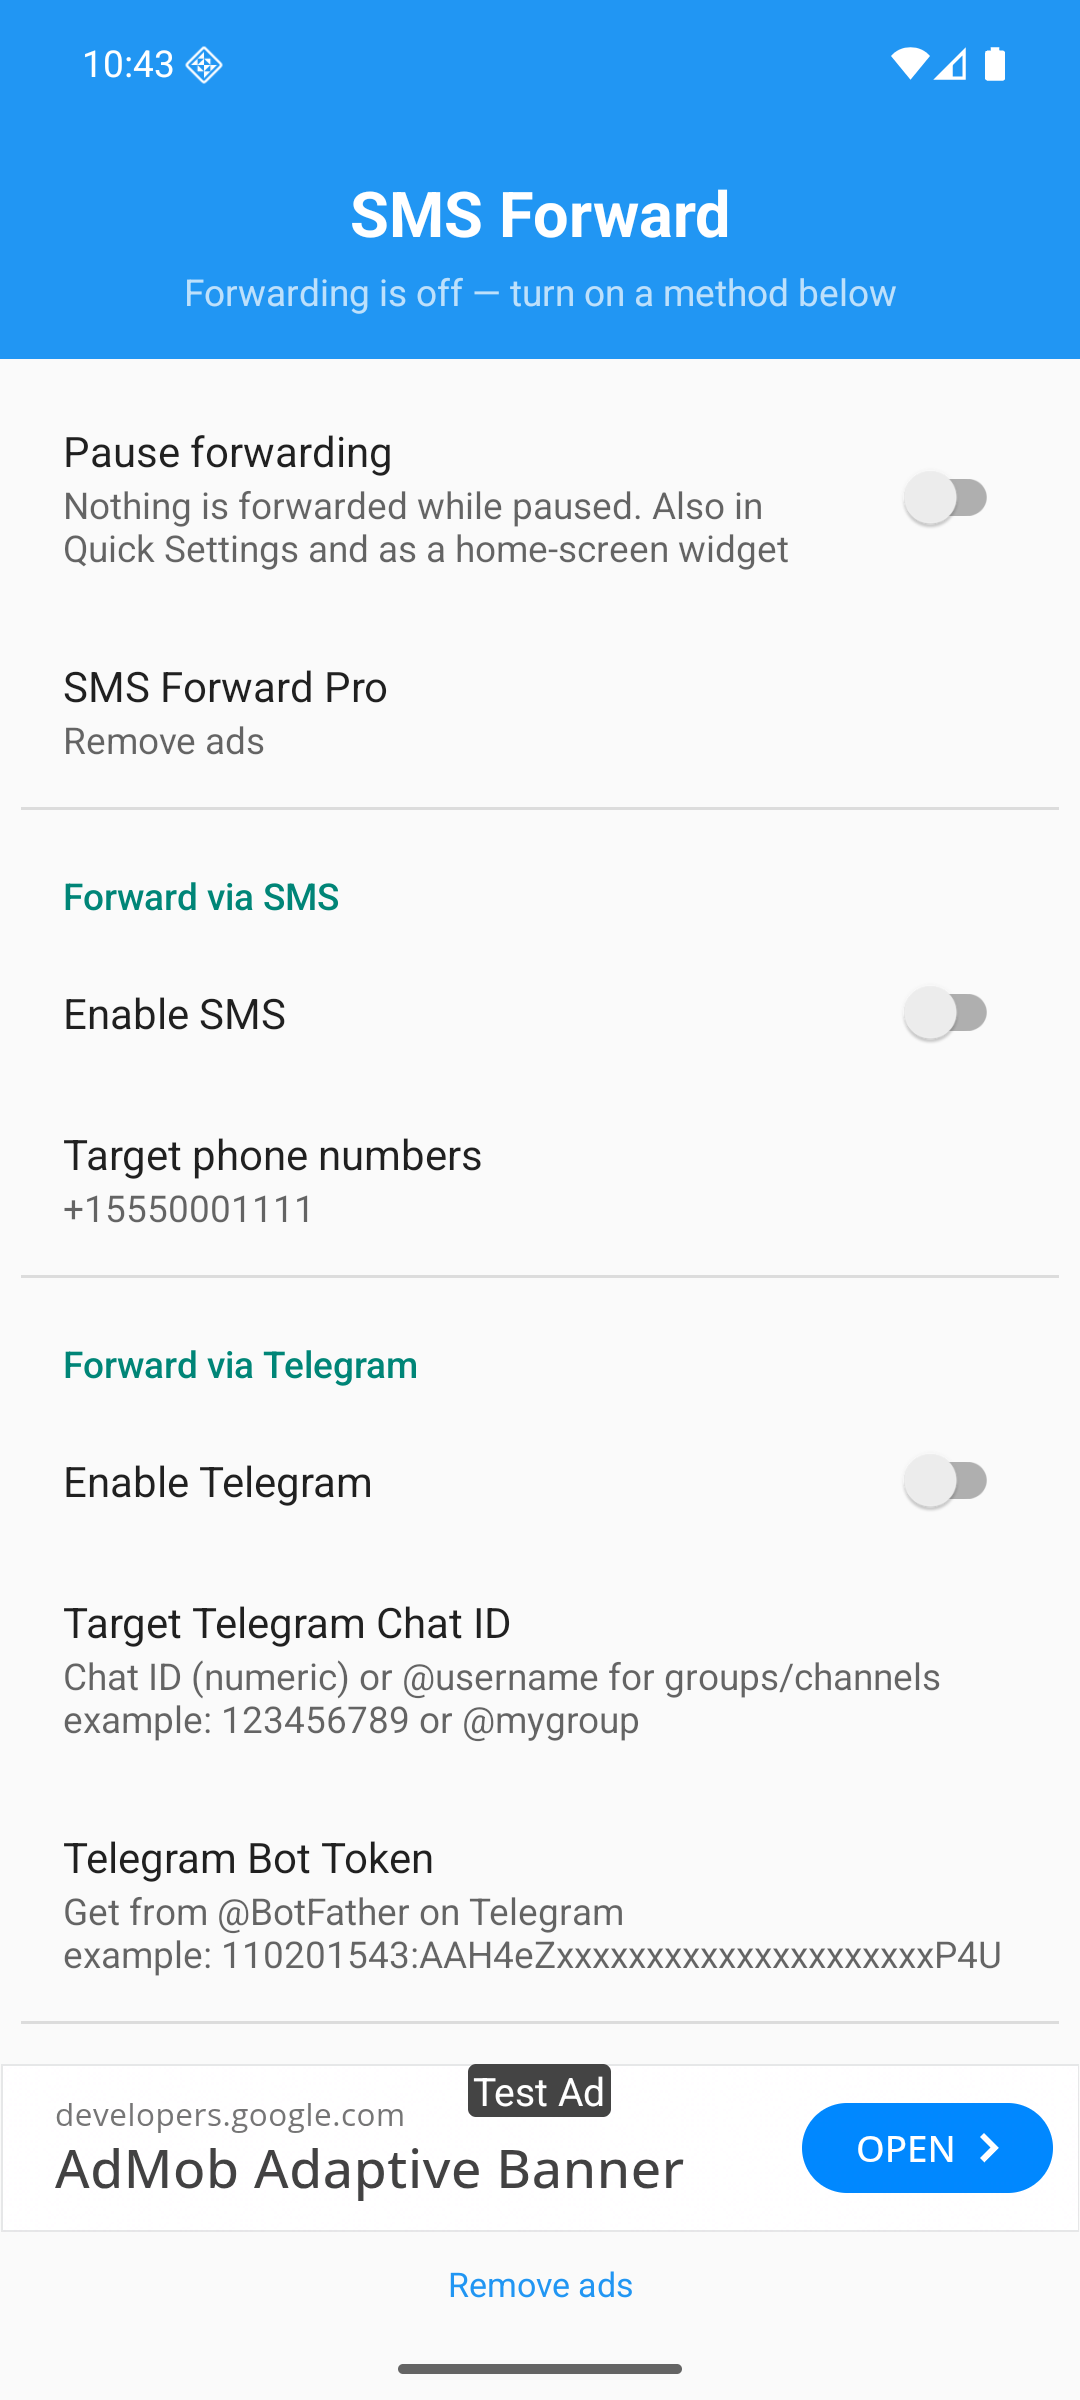
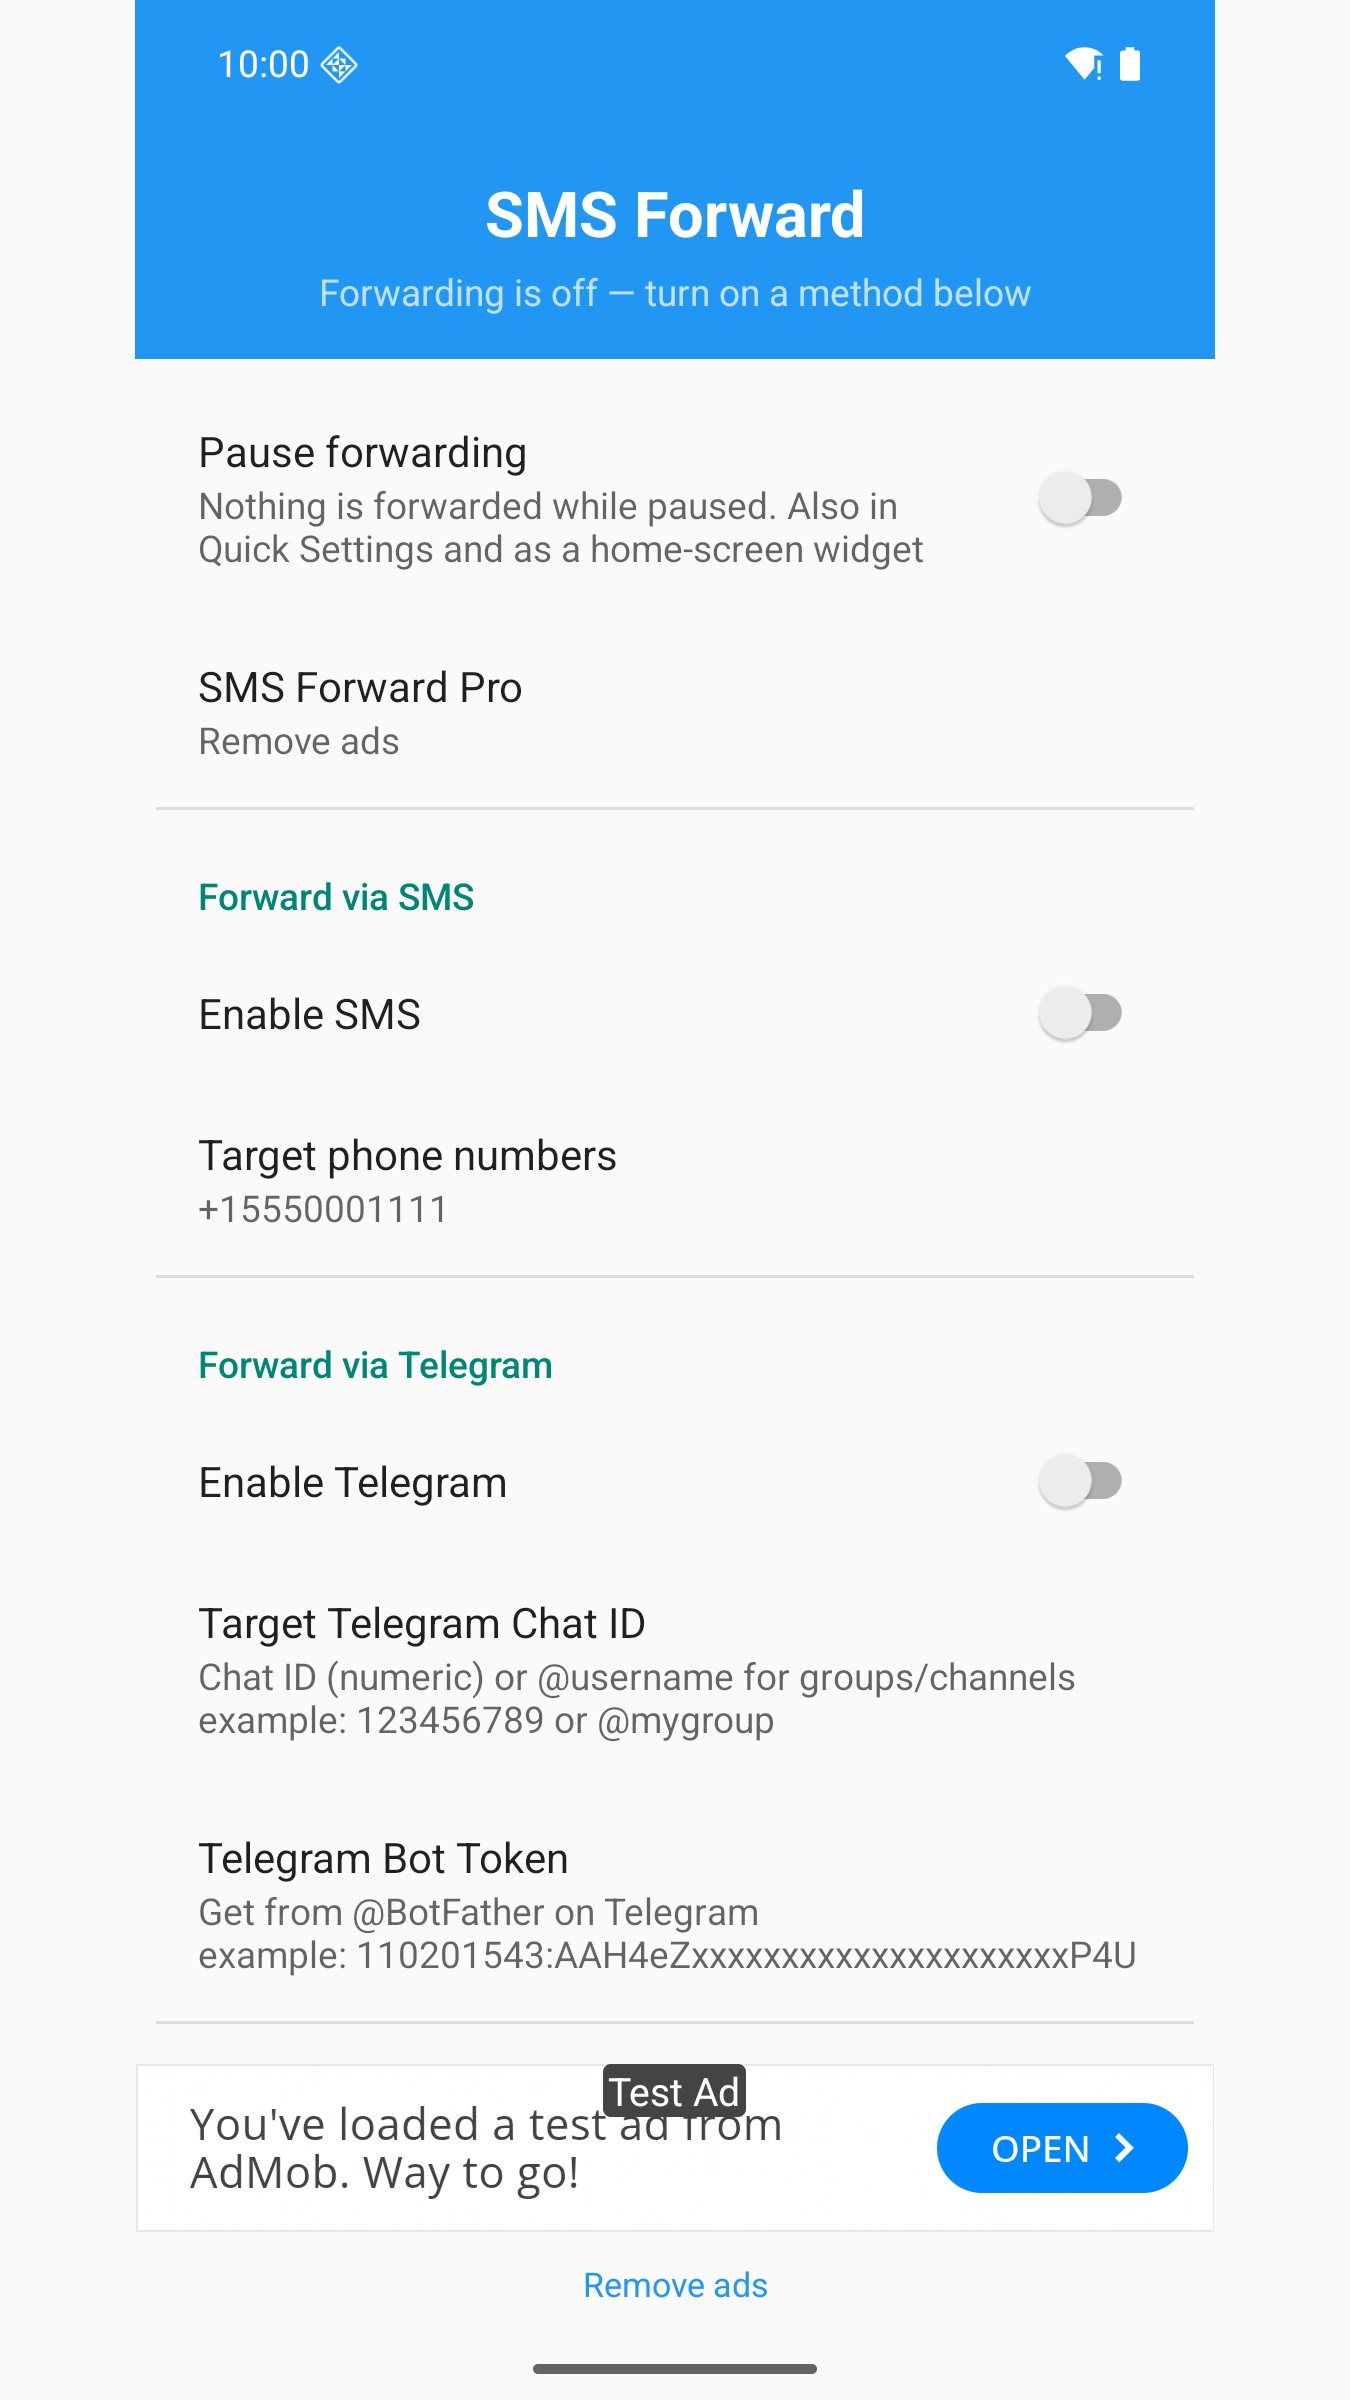
Prepare Play listings and release assets

diff --git a/docs/PLAY_RELEASE.md b/docs/PLAY_RELEASE.md
@@ -24,12 +24,13 @@ Bump `versionCode` in `app/build.gradle` for every upload.
 - **Privacy policy URL:** https://github.com/spinykiller/sms_forwarder/blob/master/docs/PRIVACY.md
 - **Permissions declaration (SMS):** required, or the app is rejected. Core functionality: *SMS forwarding to the user's other devices/services*. Closest permitted use: **cross-device synchronization or transfer of SMS** (forwarding to the user's own phone, Telegram or server). Explain: the user configures destinations; no data goes to the developer; SMS data is never used for ads. Provide a demo video showing setup → incoming SMS → forwarded copy.
   - Risk: Google decides SMS exceptions case by case. Rejection is possible; the GitHub APK remains the fallback.
-- **Data safety:** SMS/MMS messages and Contacts are *processed* to provide app functionality and *shared* only at the user's direction (to destinations they set); encrypted in transit (https; SMS is carrier-transmitted); deletable by clearing app data. Plus the AdMob SDK: *Device or other IDs*, *Approximate location*, *App interactions*, *Diagnostics* — collected and shared for Advertising/Analytics/Fraud prevention. Declare **Contains ads: yes** and the `AD_ID` permission use (advertising). Pro notification forwarding processes *Other in-app messages* the same way (user-directed sharing, not collected by the developer).
+- **Data safety:** Review `docs/store/console_answers.md` and the current Google SDK disclosures. SMS and optional contact names and selected notifications are sent to user-configured destinations for app functionality; determine collection and sharing under Play's current definitions. Webhooks use HTTPS and SMTP uses TLS; SMS is carrier-transmitted. AdMob may collect device IDs, approximate location, interactions and diagnostics. Declare ads and advertising ID use.
 - **Notification access** (`NotificationListenerService`): no declaration form, but review checks the prominent disclosure shown before the system screen (in the app) and the privacy policy line; show it in the demo video.
 - **READ_PHONE_STATE**: requested only from the Pro "Send SMS from" picker to list SIMs; mention it in the SMS declaration's description.
 - **In-app products** (IDs must match `Billing.java`):
   - Subscription `pro` with base plans `annual` (+ offer `trial`, e.g. 7-day free trial, new customers) and `monthly`.
   - One-time product `pro_lifetime`.
+  - Monthly: USD 1.99 / INR 99; annual: USD 9.99 / INR 499; lifetime: USD 19.99 / INR 999. Convert other regions from USD; enable new regions. Annual offer `trial`: 7 days free for customers who have never had `pro`.
   - Add license testers (Setup → License testing) and test purchases on the internal track; the emulator without Play Store shows "billing isn't available".
 - **Content rating:** questionnaire (utility, no user-generated content shared publicly).
 - **Target audience:** 18+.

diff --git a/docs/store/console_answers.md b/docs/store/console_answers.md
@@ -6,7 +6,7 @@
 
 The optional Pro SIM picker requests READ_PHONE_STATE to list available SIMs for outgoing SMS. Optional Pro notification forwarding requests notification access after an in-app disclosure; it forwards content only from apps selected by the user.
 
-Demo video: show destination setup, an incoming SMS and the forwarded copy, then the notification-access disclosure and system access screen. Video still required.
+Demo video: the local `demo.mp4` is a draft only. Replace it with a recording showing installation, permission request, destination setup, the same incoming SMS and forwarded copy, and the notification-access disclosure before submitting.
 
 ## Data safety
 
@@ -20,3 +20,16 @@ Review the final app and SDK disclosures in Play Console before submitting; thes
 - Contains ads: yes. Advertising ID: advertising.
 
 Sources: https://support.google.com/googleplay/android-developer/answer/10208820 and https://support.google.com/googleplay/android-developer/answer/10787469
+
+## Other Console forms
+
+- App category: Tools. Suggested tags: select only applicable SMS and utility tags available in Console.
+- App access: All functionality is accessible without an account; paid Pro features use Google Play purchases.
+- Ads: Yes. Advertising ID: Yes, used for advertising.
+- Target audience: 18 and over only.
+- Government apps: No. Financial features: None. Health features: None.
+- Content rating: Answer the questionnaire for a utility app with no app-provided public user-generated content, violence, sexual content, gambling or controlled-substance content. Messages and notification content are user-supplied; answer any questions about user interaction and unrestricted access according to the exact wording in Console.
+- Privacy policy: https://github.com/spinykiller/sms_forwarder/blob/master/docs/PRIVACY.md
+- SMS declaration video URL: [Paste the unlisted YouTube URL after recording and upload.]
+
+Google's data safety definitions distinguish collection from sharing and exclude certain user-directed transfers from the definition of sharing. Confirm the exact form answers for each configured destination and every integrated SDK; do not assume all user-directed transfers are automatically exempt. See https://support.google.com/googleplay/android-developer/answer/10787469.

diff --git a/docs/PRIVACY.md b/docs/PRIVACY.md
@@ -19,10 +19,10 @@ The free version does not store a history of your messages. With Pro, the option
 
 ## What the app does not do
 - No collection of SMS or contact data by the developer.
-- SMS and contact data are never used for advertising, analytics or profiling, and never sold or shared with anyone other than the destinations you configure. The ad SDK has no access to them.
+- SMS and contact data are never used for advertising, analytics or profiling, and never sold or shared with anyone other than the destinations you configure. The app does not send SMS or contact data to the ad SDK.
 
 ## Ads (free version)
-The settings screen shows a banner from Google AdMob. AdMob may collect device identifiers (such as the advertising ID), IP-based approximate location and ad interaction data to serve and measure ads, and in some regions to personalize them. Where required (e.g. EEA/UK), the app asks for consent first, and you can change it anytime under **Settings → Privacy choices**. You can also reset or delete your advertising ID in Android settings. See [Google's privacy policy](https://policies.google.com/privacy) and [how Google uses data from partner apps](https://policies.google.com/technologies/partner-sites).
+The settings screen shows a banner from Google AdMob. AdMob may collect device identifiers (such as the advertising ID), IP-based approximate location and ad interaction data to serve and measure ads, and in some regions to personalize them. Where required (e.g. EEA/UK), Google’s User Messaging Platform (UMP) asks for consent first, and you can change it anytime under **Settings → Privacy choices**. You can also reset or delete your advertising ID in Android settings. See [Google's privacy policy](https://policies.google.com/privacy) and [how Google uses data from partner apps](https://policies.google.com/technologies/partner-sites).
 
 ## Purchases
 Pro purchases are handled by Google Play. The app only checks with Google Play whether you own Pro; it never sees your payment details.

diff --git a/docs/store/production_access.md b/docs/store/production_access.md
@@ -1,0 +1,9 @@
+# Production access application — complete after the closed test
+
+Do not submit invented testing claims. Fill in the facts after at least 12 testers have remained opted in continuously for 14 days.
+
+- Recruitment: [How and where testers were recruited; number invited and opted in.]
+- Engagement: [How testers used SMS forwarding, destinations, permissions, ads and Pro.]
+- Feedback: [How feedback was collected and the substantive issues reported.]
+- Changes: [Changes made in response, with release or issue references.]
+- Readiness: [Why the app is ready, supported by test results and any unresolved limitations.]
